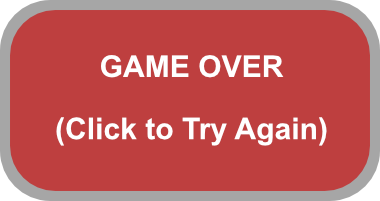
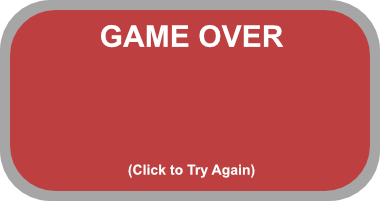
Improved tutorial description Cleaned up rocks on gameover and pause to prevent z-order issue Displayed coing animation on game over Increased slime count to 2

diff --git a/js/Game.js b/js/Game.js
@@ -62,7 +62,7 @@ Game.prototype = {
     },
 
     create: function() {
-        //this.game.rock_sprites = [];
+        this.game.rock_sprites = [];
         this.game.slimes = [];
         this.game.tools = ["pickaxe","hand","hammer"];
         this.game.selected_tool = "pickaxe";
@@ -236,10 +236,16 @@ Game.prototype = {
         this.game.help.events.onInputUp.add(function() {
             if(this.game.tutorial.visible == true) {
                 this.pause(false);
+                this.game.rock_sprites.forEach(function(rock) {
+                    rock.visible = true;
+                });
                 this.game.tutorial.visible = false;
             }
             else {
                 this.pause(true);
+                this.game.rock_sprites.forEach(function(rock) {
+                    rock.visible = false;
+                });
                 this.game.tutorial.visible = true;
             }
         }, this);
@@ -266,8 +272,8 @@ Game.prototype = {
 
     slimeGenerator: function() {
         //must be items in the bin
-        //cant be more than 1 slime out
-        if(this.game.bin.inventory.length > 0 && this.game.slimes.length < 1) {
+        //cant be more than 2 slimes out
+        if(this.game.bin.inventory.length > 0 && this.game.slimes.length < 2) {
             var slime = new Slime(this.game, this.game.trapdoor.x - 50, this.game.trapdoor.y + 20);
             this.game.slimes.push(slime);
         }
@@ -463,6 +469,7 @@ Vein.prototype = {
         var type = Math.floor(Math.random() * rock_types.length);
         //console.log(type);
         var rock = new Rock(this.game, rock_types[type], posX, posY);
+        this.game.rock_sprites.push(rock.sprite);
         //this.rock_sprites.push(coal.coal_sprite);
         //this.game.physics.enable(coal.coal_sprite, Phaser.Physics.ARCADE);
         //coal.coal_sprite.body.collideWorldBounds = true;
@@ -513,6 +520,10 @@ Furnace.prototype = {
         }
         else {
             //game over
+            this.game.rock_sprites.forEach(function(rock) {
+                rock.visible = false;
+            });
+
             this.game.gameover.visible = true;
 
             this.game.custom_pause = true;
@@ -525,6 +536,37 @@ Furnace.prototype = {
             this.game.tool_pickaxe.inputEnabled = false;
             this.game.tool_hand.inputEnabled = false;
             this.game.tool_hammer.inputEnabled = false;
+
+            //show coins won
+            var pos_x = this.game.gameover.x+15;
+            var pos_y = this.game.gameover.y+65;
+            var tweens = [];
+            var max_per_row = 14;
+
+            //place coins, hide them, and build tweens
+            for(var i=1; i<this.game.reward_count; i++) {
+                var temp_sprite = this.game.add.sprite(pos_x,pos_y,"coin");
+                temp_sprite.alpha = 0;
+                var temp_tween = this.game.add.tween(temp_sprite).to({alpha: 1}, 250, Phaser.Easing.Linear.None);
+                var game = this.game;
+                temp_tween.onComplete.add(function() {
+                    game.sfx_reward.play();
+                });
+                tweens.push(temp_tween);
+                if((i % max_per_row+1) == 1) {
+                    pos_y+=25;
+                    pos_x=this.game.gameover.x+15;
+                }
+                else {
+                    pos_x+=25;
+                }
+            }
+
+            //chain tweens and play them
+            for(var x=0; x<tweens.length-1; x++) {
+                tweens[x].chain(tweens[x+1]);
+            }
+            tweens[0].start();
         }
     },
     addFuel: function(amount) {
